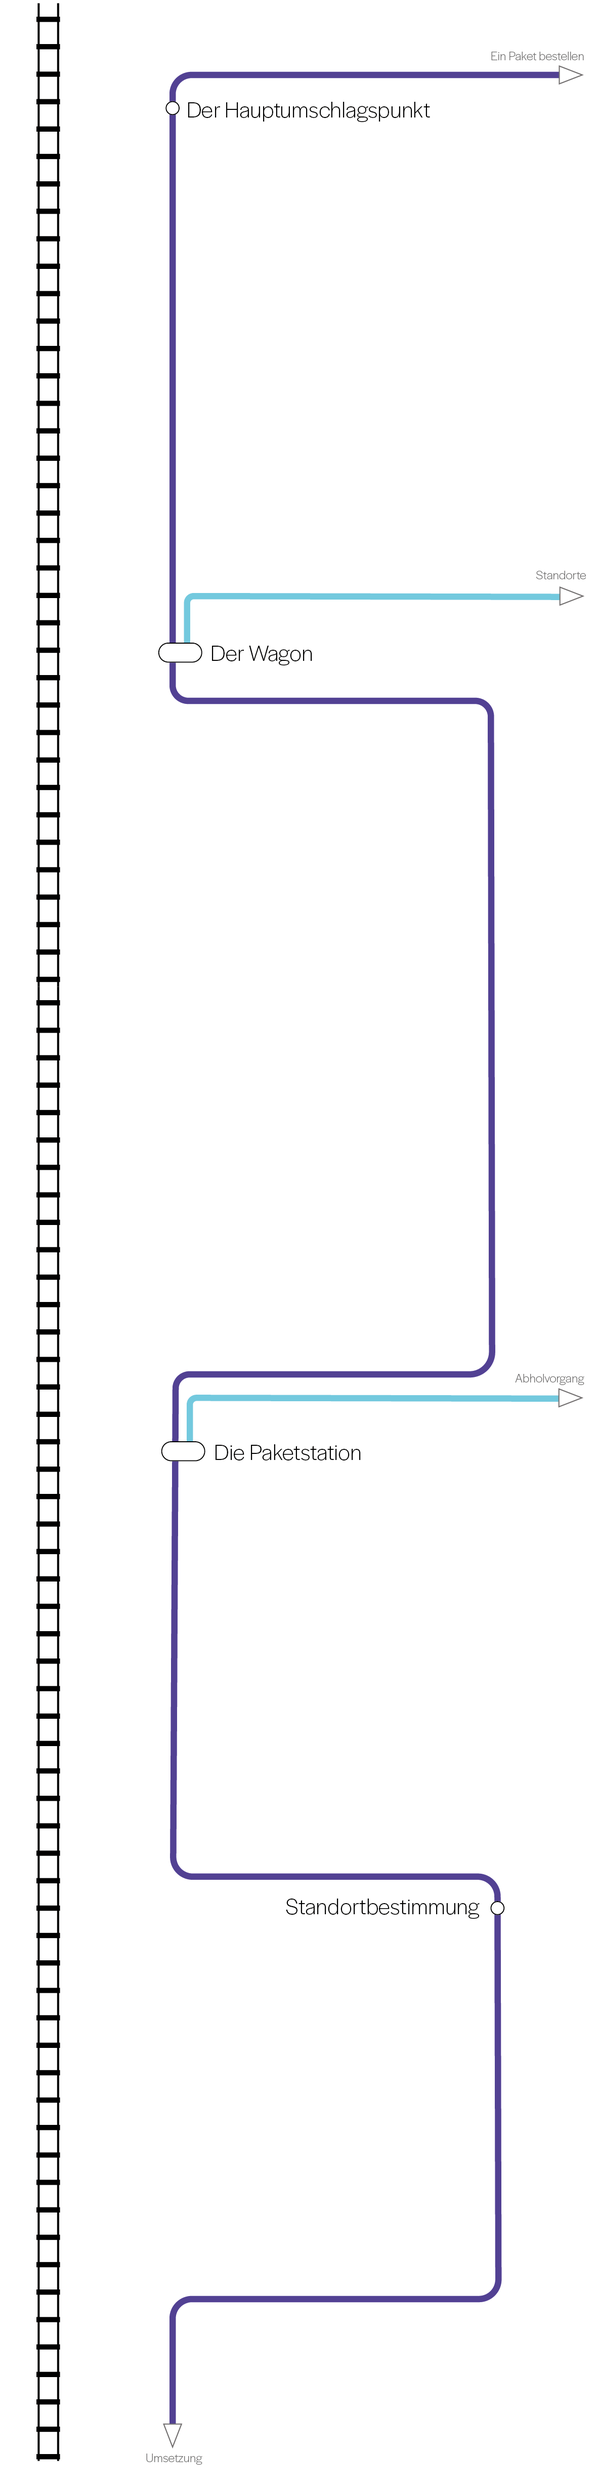
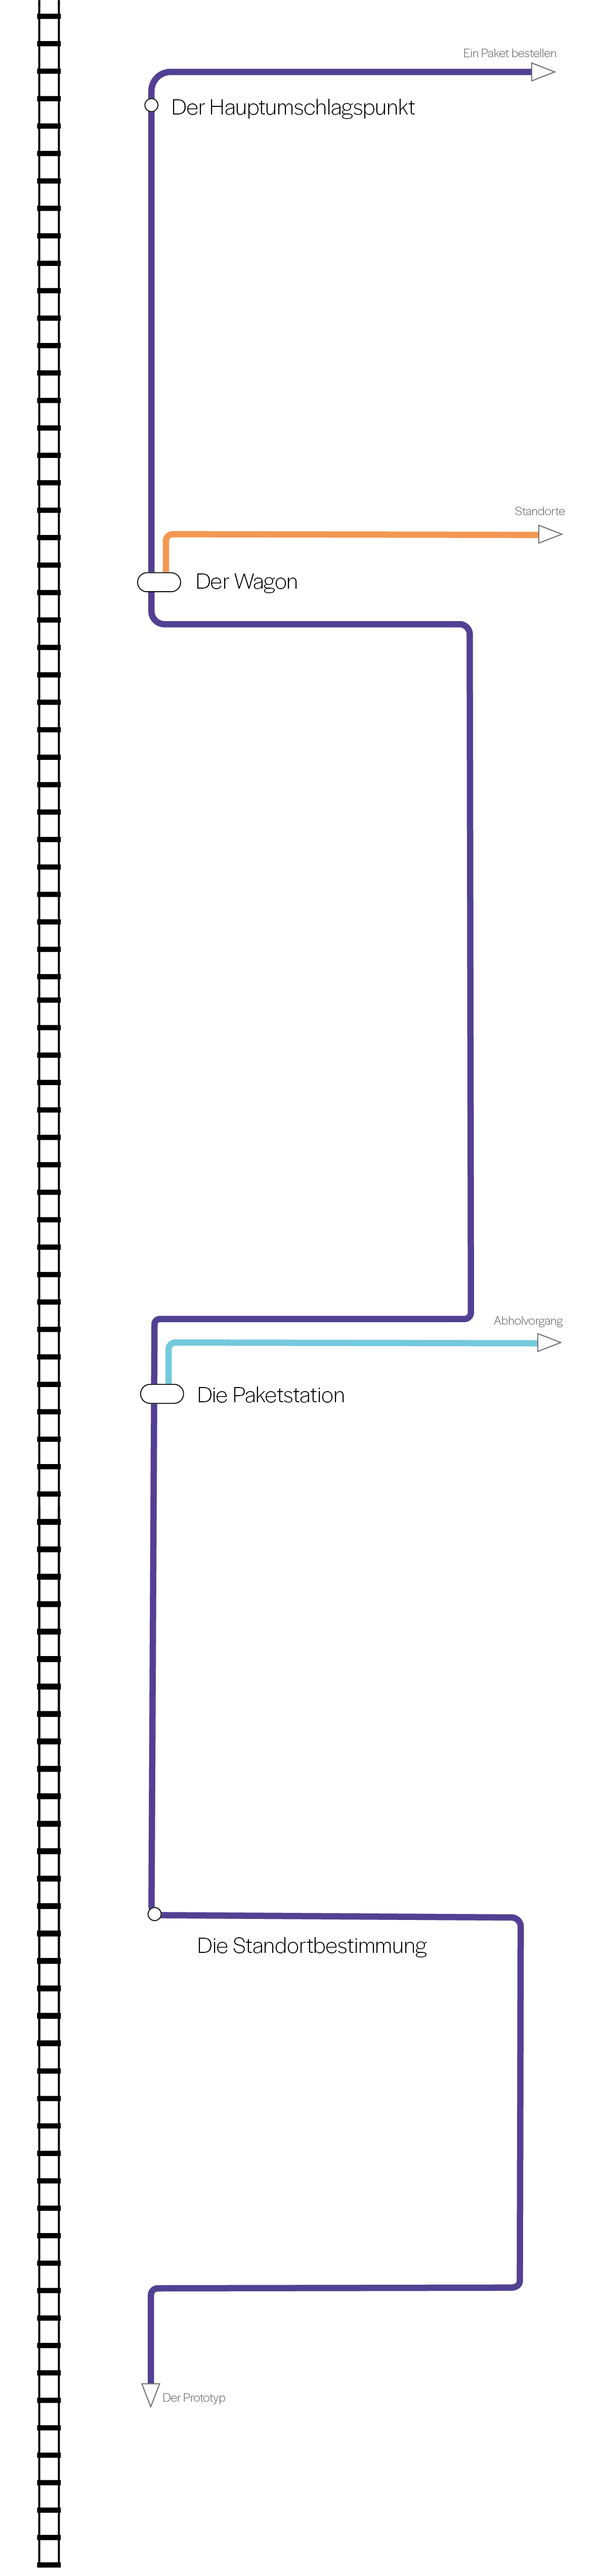
tech

diff --git a/Doku.js b/Doku.js
@@ -31,6 +31,7 @@ let text11 = loadImage("Texte/techStation.png");
 let text12 = loadImage("Texte/derKunde.png");
 let text13 = loadImage("Texte/derEndkunde.png");
 let text14 = loadImage("Texte/Standort.png");
+let text15 = loadImage("Texte/Standortbestimmung.png");
 
 
 //let gif = loadImage("Schienen.gif");
@@ -53,6 +54,9 @@ let waggon = loadImage("Bilder/Wagonaußen.png");
 let innerWaggon = loadImage("Bilder/obereWagenEbene.png");
 let stationEbene = loadImage("Bilder/Paketstationoben.png");
 let paketZug = loadImage("Bilder/Paket2.png");
+let passenger = loadImage("Bilder/Mensch.png");
+let beaconOn = loadImage("Bilder/BeaconAn.png");
+let beaconOff = loadImage("Bilder/BeaconAus.png");
 
 let map = loadImage("Bilder/Abdeckungskarte.png");
 
@@ -64,6 +68,8 @@ let count = 0;
 let station = 0; 
 let transport =0;
 let pack = 0;
+let lieferung = 0;
+let theTrain = 0;
 
 //Aufklappen der Navigation 
 let manY = 350;
@@ -99,7 +105,7 @@ class Background{
 //Hintergrund
 let back1 = new Background(hintergrund, 0,0,windowWidth,windowWidth*2);
 let backMob = new Background(hintergrundMob, 0,0,windowWidth,windowWidth*2);
-let backtech = new Background(hintergrundtech, 0,0,windowWidth,windowWidth*3.25);
+let backtech = new Background(hintergrundtech, 0,0,windowWidth,windowWidth*4.23);
 let backKunde = new Background(hintergrundKunde,0,0,windowWidth,windowWidth*3.76);
 let abholung = new Background (hintergrundAbholung, 0,0,windowWidth,windowWidth*1.5);
 let topNav = new Background(topBar,0,0,windowWidth,windowWidth/21.5);
@@ -108,7 +114,7 @@ let techNav = new Background(topTech,0,windowWidth/100,windowWidth,windowWidth/2
 let designNav = new Background(topDesign,0,windowWidth/60,windowWidth,windowWidth/21.5);
 let shadowNav = new Background(topShadow,0,windowWidth/16.5,windowWidth,windowWidth/21.5);
 
-let bkasten = new Background(buttonkasten,windowWidth/1.13,windowWidth/0.46,windowWidth/15,windowWidth/15);
+let bkasten = new Background(buttonkasten,windowWidth/1.28,windowWidth/0.375,windowWidth/15,windowWidth/15);
 
 //Texte
 let einleitung = new Background(text1,windowWidth/2.6,windowWidth/3.48,windowWidth/4.465,windowWidth/6.4);
@@ -120,13 +126,15 @@ let LastMile = new Background(text6,windowWidth/7,windowWidth/0.78,windowWidth/1
 let mobil = new Background(text7,windowWidth/3.2,windowWidth/4,windowWidth/2.4,windowWidth/3.24);
 let abstract = new Background(text8,windowWidth/3.2,windowWidth/1.32,windowWidth/2.49,windowWidth/6.9);
 
-let umschlagspunkt = new Background(text9,windowWidth/3.4,windowWidth/5,windowWidth/2.93,windowWidth/3.1);
+let umschlagspunkt = new Background(text9,windowWidth/3.45,windowWidth/5,windowWidth/2.93,windowWidth/3.1);
 let wagonText = new Background (text10,windowWidth/4,windowWidth/0.78,windowWidth/2.9,windowWidth/2.43);
 let innerStation = new Background(text11,windowWidth/3,windowWidth/0.43,windowWidth/2.9,windowWidth/3.3);
 var derZug = new Background(train,windowWidth/15.5,zugY,windowWidth/30.5,windowWidth/4.03);
+
 let customer = new Background(text12,windowWidth/5.2,windowWidth/3.5,windowWidth/1.4,windowWidth/2.75);
 let endcustomer = new Background(text13,windowWidth/5.2,windowWidth/1.27,windowWidth/2.94,windowWidth/3.51);
 let ort = new Background(text14,windowWidth/5.2,windowWidth/0.76,windowWidth/1.45,windowWidth/9.8);
+var dieStandortbestimmung = new Background(text15,windowWidth/3,windowWidth/0.308,windowWidth/2.9,windowWidth/2.66);
 
 //Bilder
 let umschlagslagerbild = new Background(umschlagslager, windowWidth/3.4,windowWidth/1.8,windowWidth/2.86,windowWidth/4.8);
@@ -146,6 +154,9 @@ let derWagon = new Background(waggon,windowWidth/3.2,windowWidth/0.96,windowWidt
 let wagonEbene = new Background(innerWaggon,windowWidth/5.2,windowWidth/0.57,windowWidth/2.3,windowWidth/4.26);
 let inStation = new Background(stationEbene,windowWidth/3,windowWidth/0.38,windowWidth/1.86,windowWidth/3.575);
 let paketLadung = new Background(paketZug,windowWidth/3.3,windowWidth/1.5,windowWidth/42.326,windowWidth/44);
+let human = new Background(passenger,windowWidth/15.5,windowWidth/0.31,windowWidth/37.65,windowWidth/31.48);
+let signal = new Background(beaconOn,windowWidth/4.3,windowWidth/0.303,windowWidth/28.24,windowWidth/3.78);
+let noSignal = new Background(beaconOff,windowWidth/4.3,windowWidth/0.303,windowWidth/28.24,windowWidth/3.78);
 
 let abdeckung = new Background(map,windowWidth/5.2,windowWidth/0.7,windowWidth/2.03,windowWidth/2.46);
 //let Schienen = new Background(gif,windowWidth/9,windowWidth/1,500,250)
@@ -163,7 +174,7 @@ function mouseClicked(){
     //Der Hauptumschagspunkt
     if ((count==0)&&(mouseX>windowWidth/20)&&(mouseX<windowWidth/20+windowWidth/15)&&(mouseY>windowWidth/0.6)&&(mouseY<windowWidth/0.6+windowWidth/15)){
         count =3;
-        createCanvas(windowWidth,windowWidth*3.25); 
+        createCanvas(windowWidth,windowWidth*4.23); 
         document.body.scrollTop = 0;
         document.documentElement.scrollTop = 0;
     }
@@ -195,8 +206,9 @@ function mouseClicked(){
         createCanvas(windowWidth,windowWidth*2);
     }
     //zurück zum Start (Der Hauptumschlagspunkt)
-    if ((count==3)&&(mouseX>windowWidth/1.1)&&(mouseX<windowWidth/1.1+windowWidth/15)&&(mouseY>windowWidth/15)&&(mouseY<windowWidth/15+windowWidth/15)){
+    if ((count==3)&&(mouseX>windowWidth/1.15)&&(mouseX<windowWidth/1.15+windowWidth/15)&&(mouseY>windowWidth/15)&&(mouseY<windowWidth/15+windowWidth/15)){
         count =0; 
+        lieferung=0;
         createCanvas(windowWidth,windowWidth*2);
     }
      //zurück zum Start (Die Abholung)
@@ -272,28 +284,10 @@ function draw(){
     }
 
     if (count==3){   //Der Hauptumschagspunkt
+
         backtech.display();
         umschlagslagerbild.display(); 
         umschlagspunkt.display();
-       
-        if (scrollPos >= zOffset){
-            
-            derZug.Y=scrollPos+50;
-            derZug.display();
-            }
-        if (scrollPos >= windowWidth/3){
-            paketLadung.display();
-            if (paketLadung.X>=windowWidth/13.4303){
-            paketLadung.X=paketLadung.X-10;
-            }
-            if (scrollPos >= windowWidth/1.5){
-                
-                paketLadung.Y=scrollPos+60;
-            }
-        }
-        
-    
-       
         Fließband.display();
         derWagon.display();
         wagonText.display();
@@ -301,7 +295,57 @@ function draw(){
         innerStation.display();
         inStation.display();
         
-        bkasten.display();
+        
+        
+        noSignal.display();
+        
+       // bkasten.display();
+
+       if ((paketLadung.X >= windowWidth/1.28)&&(paketLadung.Y==windowWidth/0.375)){
+        lieferung=1;
+        }
+        if (human.X>=windowWidth/4.3){
+            signal.display();
+            dieStandortbestimmung.display();
+        }
+        if (scrollPos >= zOffset){
+            derZug.display();
+            //Zug fährt aus dem Bild
+            if (scrollPos >= windowWidth/0.27){
+                derZug.Y = derZug.Y+10;
+                theTrain=1;
+             }
+            //Der Zug fährt beim Scrollen
+            if ((scrollPos<windowWidth/0.27)&&(theTrain==0)){
+            derZug.Y=scrollPos+50;
+            
+           
+            }
+            
+            //Paket Ein-und Ausladen
+            if (scrollPos >= windowWidth/3){
+            paketLadung.display();
+                if ((paketLadung.X>=windowWidth/13.4303)&&(scrollPos <= windowWidth/0.4)&&(lieferung==0)){
+                paketLadung.X=paketLadung.X-10;
+                }
+                if ((scrollPos >= windowWidth/1.5)&&(scrollPos <= windowWidth/0.4)&&(lieferung==0)){  
+                paketLadung.Y=scrollPos+70;
+                }    
+            } 
+            if ((scrollPos >= windowWidth/0.4)&&(paketLadung.X<= windowWidth/1.28)&&(lieferung==0)){
+                paketLadung.X = paketLadung.X +10;
+                paketLadung.Y=windowWidth/0.375;
+            }
+
+            //Standortbestimmung
+            if (scrollPos >= windowWidth/0.339){
+                human.display();
+                if (human.X<=windowWidth/4.3){
+                    human.X=human.X+10;
+                }
+            }
+            
+        }
 
     }
     //Die Stationsinteraktion
@@ -366,7 +410,7 @@ function draw(){
         abdeckung.display();
         ort.display();
     }
-    console.log(zugY);
+    console.log(lieferung);
      //Navigation
      shadowNav.display();
     designNav.display();
